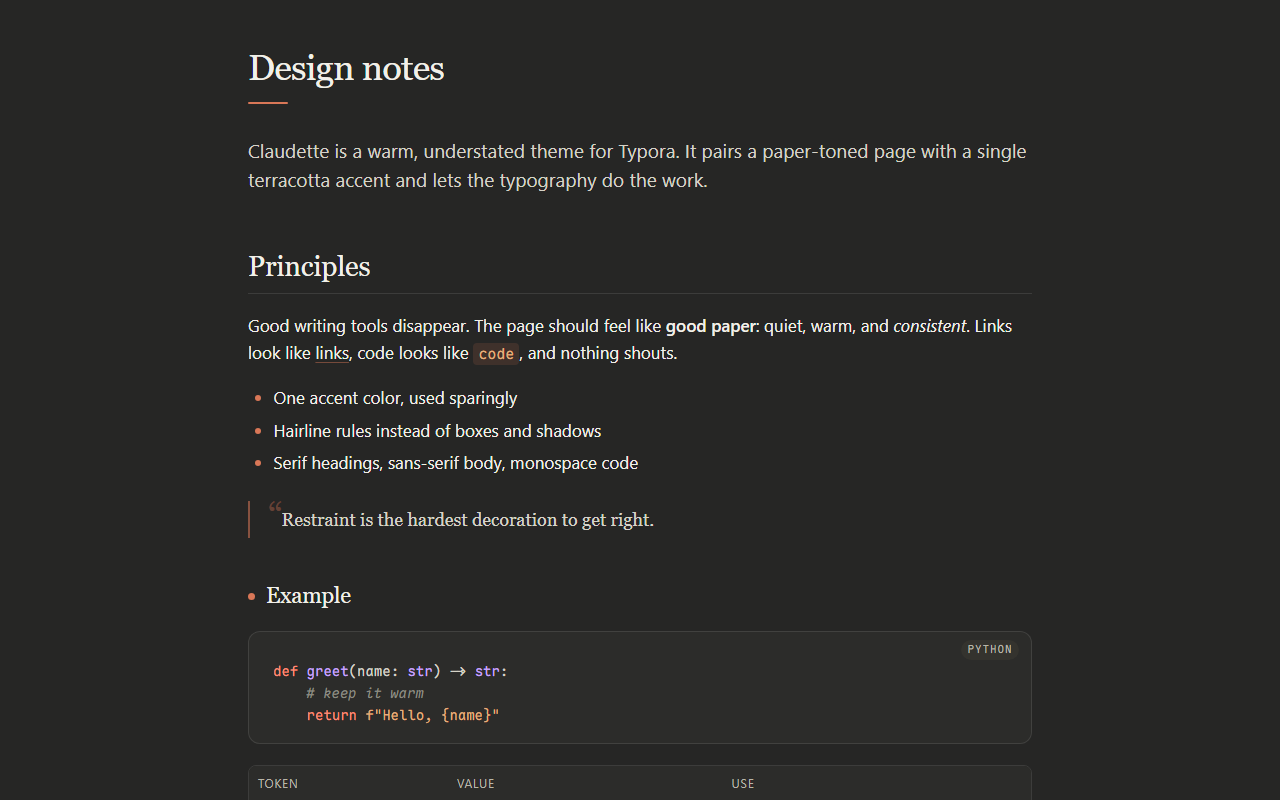
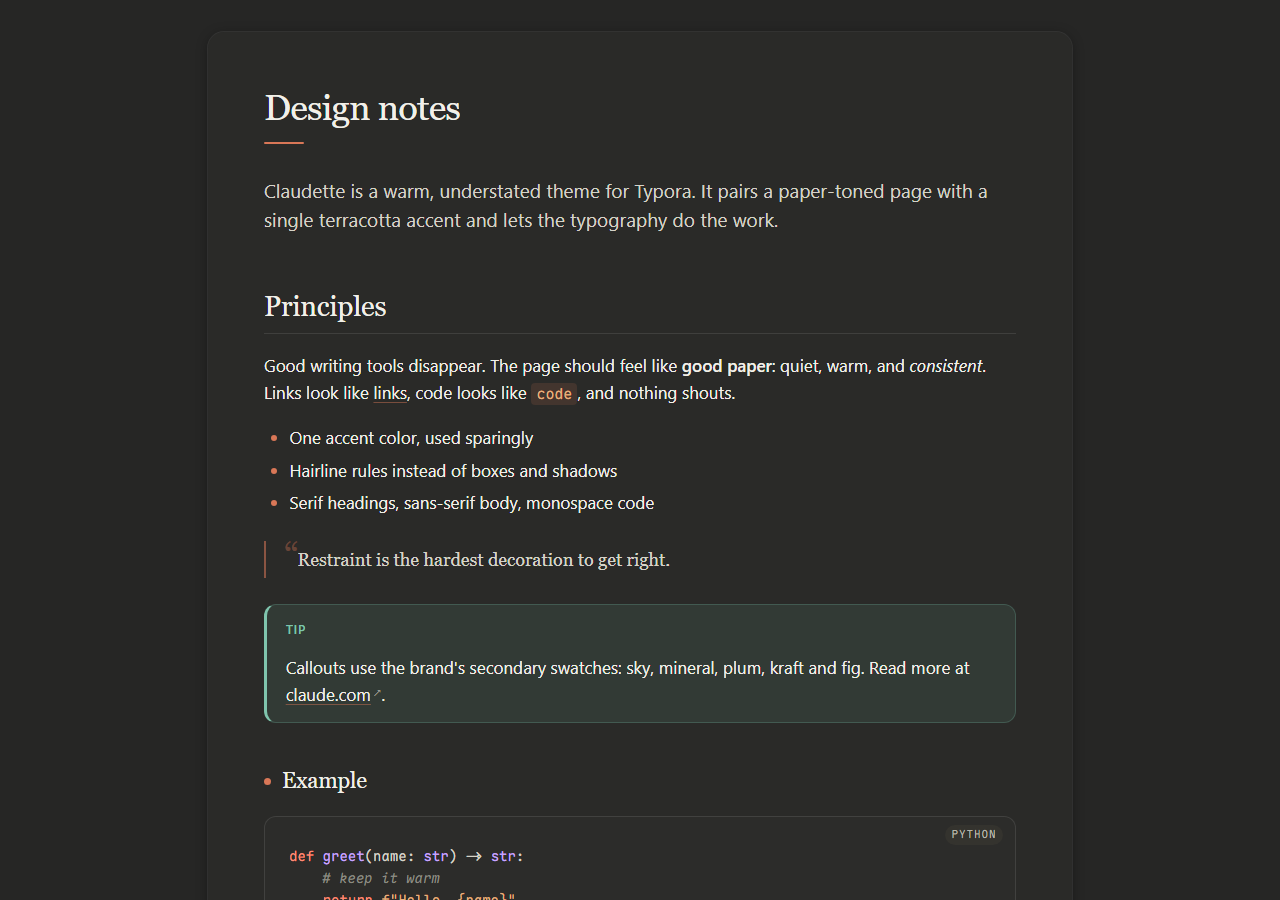
Add paper sheet, brand-tinted callouts and small touches
Place the document on a white sheet over the ivory page as on
academy.claude.com, tint GitHub-style callouts with the secondary
swatches, mark external links, style YAML front matter as a properties
panel and dim non-focused blocks in focus mode.

diff --git a/claudette.css b/claudette.css
@@ -56,6 +56,9 @@
     --bg-fill: var(--ivory-200);
     --bg-fill-2: var(--ivory-250);
     --bg-elevated: var(--white);
+    --paper: var(--white);
+    --paper-ring: rgba(0, 0, 0, 0.10);
+    --paper-shadow: 0 2px 12px rgba(0, 0, 0, 0.05);
     --fg-primary: var(--slate-950);
     --fg-secondary: var(--slate-650);
     --fg-tertiary: var(--slate-550);
@@ -760,7 +763,7 @@ footer.ty-footer {
     top: 50%;
     transform: translate(-50%, -50%);
     padding: 0 0.75em;
-    background: var(--bg-primary);
+    background: var(--paper);
     color: var(--accent);
     font-size: 0.75rem;
     line-height: 1;
@@ -850,14 +853,129 @@ footer.ty-footer {
 .outline-item.select { color: var(--accent-interactive); }
 .sidebar-tab.active { box-shadow: inset 0 -2px 0 var(--accent); }
 
+/* ======================================================================
+ * 锦上添花
+ * 取自 academy.claude.com 的纸张卡片、文档站的提示框、claude.com 的外链箭头
+ * ====================================================================== */
+
+/* 纸张卡片：正文放在一张白纸上，页面底色为米色（academy th-paper / th-page） */
+content { background: var(--bg-primary); scroll-behavior: smooth; }
+#write {
+    background: var(--paper);
+    border-radius: var(--radius-lg);
+    box-shadow: 0 0 0 1px var(--paper-ring), var(--paper-shadow);
+    margin: 2rem auto 3rem;
+    padding: 3.5rem 3.5rem 5rem;
+    min-height: calc(100vh - 5rem);
+    box-sizing: border-box;
+}
+@media only screen and (max-width: 900px) {
+    #write { margin: 1rem auto 2rem; padding: 2.5rem 1.75rem 4rem; border-radius: var(--radius-md); }
+}
+#write .md-fences, #write pre.md-meta-block { background: var(--bg-secondary); }
+#write code { background: var(--accent-soft); }
+
+/* 外部链接：末尾一枚小箭头（claude.com 的 "Explore ↗"） */
+#write a[href^="http"]:not(:has(img))::after {
+    content: "\2197";
+    display: inline-block;
+    margin-left: 0.15em;
+    font-size: 0.7em;
+    line-height: 1;
+    vertical-align: 0.35em;
+    color: var(--fg-muted);
+    text-decoration: none;
+    transition: color .15s ease, transform .15s ease;
+}
+#write a[href^="http"]:hover::after {
+    color: var(--accent-interactive);
+    transform: translate(1px, -1px);
+}
+
+/* 提示框（> [!NOTE] 等）：文档站 callout 的着色，取品牌辅色 */
+#write .md-alert {
+    border: 1px solid var(--alert-line);
+    border-left: 3px solid var(--alert-color);
+    border-radius: var(--radius-md);
+    background: var(--alert-bg);
+    padding: 0.85em 1.1em;
+    margin: 1.4em 0;
+    color: var(--fg-primary);
+}
+#write .md-alert > :last-child { margin-bottom: 0; }
+#write .md-alert .md-alert-text {
+    font-family: var(--font-sans);
+    font-size: 0.8125rem;
+    font-weight: var(--wt-semibold);
+    letter-spacing: 0.04em;
+    text-transform: uppercase;
+    color: var(--alert-color);
+}
+#write .md-alert.md-alert-note      { --alert-color: #3b6fa3; --alert-bg: rgba(106, 155, 204, 0.08); --alert-line: rgba(106, 155, 204, 0.30); }
+#write .md-alert.md-alert-tip       { --alert-color: #3f7566; --alert-bg: rgba(98, 153, 135, 0.10); --alert-line: rgba(98, 153, 135, 0.30); }
+#write .md-alert.md-alert-important { --alert-color: #5f5a9c; --alert-bg: rgba(130, 125, 189, 0.10); --alert-line: rgba(130, 125, 189, 0.30); }
+#write .md-alert.md-alert-warning   { --alert-color: #9a6700; --alert-bg: rgba(212, 162, 127, 0.16); --alert-line: rgba(212, 162, 127, 0.45); }
+#write .md-alert.md-alert-caution   { --alert-color: #a63d5f; --alert-bg: rgba(196, 102, 134, 0.10); --alert-line: rgba(196, 102, 134, 0.30); }
+#write .md-alert-text-note, #write .md-alert-text-tip, #write .md-alert-text-important,
+#write .md-alert-text-warning, #write .md-alert-text-caution { color: var(--alert-color); }
+
+/* YAML front matter：属性面板样式 */
+#write pre.md-meta-block {
+    position: relative;
+    padding: 1.6em 1em 0.85em;
+    border: 1px dashed var(--line-strong);
+    border-radius: var(--radius-md);
+    background: var(--bg-secondary);
+    color: var(--fg-tertiary);
+}
+#write pre.md-meta-block::before {
+    content: "Properties";
+    position: absolute;
+    top: 0.5em;
+    left: 1em;
+    font-family: var(--font-sans);
+    font-size: 0.6875rem;
+    letter-spacing: 0.08em;
+    text-transform: uppercase;
+    color: var(--fg-muted);
+}
+
+/* 侧栏：图标弱化、当前文件图标用 clay，交互带过渡 */
+.file-node-icon, .file-node-open-state { color: var(--fg-muted); }
+.file-library-node.active > .file-node-content .file-node-icon { color: var(--accent); }
+.file-node-content, .file-list-item, .outline-item, .dropdown-menu > li > a, .context-menu > li > a, .btn {
+    transition: background-color .12s ease, color .12s ease, box-shadow .12s ease;
+}
+
+/* 次级按钮：品牌的象牙色填充（anthropic.com secondary） */
+.btn-default {
+    background: var(--bg-fill);
+    box-shadow: none;
+    color: var(--fg-secondary);
+}
+.btn-default:hover { background: var(--ivory-300); color: var(--fg-primary); }
+
+/* 状态栏字数：胶囊 */
+#footer-word-count {
+    background: var(--bg-fill);
+    border-radius: 999px;
+    padding: 0 0.75em;
+}
+
+/* 专注模式：其余段落淡出 */
+.on-focus-mode #write > *:not(.md-focus) { opacity: 0.35; }
+.on-focus-mode #write > *:not(.md-focus):hover { opacity: 0.7; }
+
 /* ---------- 打印 ---------- */
 
 @media print {
     html { font-size: 12.5px; }
     body { background: #fff; }
-    #write { max-width: 100%; padding: 0; }
+    #write { max-width: 100%; padding: 0; margin: 0; box-shadow: none; border-radius: 0; min-height: 0; }
     #write pre, #write .md-fences { page-break-inside: avoid; word-wrap: break-word; }
     #write a { color: var(--fg-primary); text-decoration: none; }
+    #write a[href^="http"]::after { content: none; }
     #write .md-fences { background: var(--bg-secondary); }
     #write tbody tr:hover td { background: transparent; }
+    .on-focus-mode #write > * { opacity: 1; }
 }

diff --git a/claudette-dark.css b/claudette-dark.css
@@ -16,6 +16,9 @@
     --bg-fill: #34332e;
     --bg-fill-2: #3a3933;
     --bg-elevated: #1a1a19;
+    --paper: #2a2a28;
+    --paper-ring: rgba(255, 255, 255, 0.08);
+    --paper-shadow: 0 2px 12px rgba(0, 0, 0, 0.35);
     --fg-primary: #f2f0e9;
     --fg-secondary: #d6d3c8;
     --fg-tertiary: #b8b6a9;
@@ -77,6 +80,17 @@ html { color-scheme: dark; }
 .md-task-list-item > input { background: var(--bg-fill); border-color: var(--line-strong); }
 .md-task-list-item > input:checked { background: var(--accent-interactive); border-color: var(--accent-interactive); }
 .md-task-list-item > input:checked::after { border-color: #141413; }
+
+/* 提示框：深色下提亮文字色 */
+#write .md-alert.md-alert-note      { --alert-color: #8ab4f8; --alert-bg: rgba(106, 155, 204, 0.12); --alert-line: rgba(106, 155, 204, 0.35); }
+#write .md-alert.md-alert-tip       { --alert-color: #7fc4ad; --alert-bg: rgba(98, 153, 135, 0.14); --alert-line: rgba(98, 153, 135, 0.35); }
+#write .md-alert.md-alert-important { --alert-color: #b3aee6; --alert-bg: rgba(130, 125, 189, 0.14); --alert-line: rgba(130, 125, 189, 0.35); }
+#write .md-alert.md-alert-warning   { --alert-color: #e3c07b; --alert-bg: rgba(212, 162, 127, 0.14); --alert-line: rgba(212, 162, 127, 0.40); }
+#write .md-alert.md-alert-caution   { --alert-color: #e58aa6; --alert-bg: rgba(196, 102, 134, 0.14); --alert-line: rgba(196, 102, 134, 0.35); }
+
+/* 次级按钮 */
+.btn-default { background: var(--bg-fill); color: var(--fg-secondary); }
+.btn-default:hover { background: var(--bg-fill-2); color: var(--fg-primary); }
 
 /* 语法错误色在深色下提亮 */
 .cm-s-inner .cm-error, .cm-s-inner .cm-negative { color: #ff6159; }

diff --git a/README.md b/README.md
@@ -15,6 +15,9 @@ Paper-toned background, a single terracotta accent, serif headings, sans-serif b
 - **Editorial typography** — serif headings at weight 400 with tight line-height; the first paragraph after an H1 is styled as a lead paragraph; H6 becomes a small uppercase label.
 - **Quiet code blocks** — soft `#f5f4ed` surface, hairline border, 12px radius, language pill in the corner, and the syntax palette used on claude.com's code panels (keyword `#c2452d`, string `#9c4a21`, number `#9a6700`, function `#6f42c1`, comment `#6e7781`).
 - **Hairline tables** — horizontal rules only, uppercase column headers, subtle row hover.
+- **Paper sheet** — the document sits on a white sheet with a hairline ring over the ivory page, the way academy.claude.com presents content. Delete the `#write` block under "锦上添花" to write directly on the page instead.
+- **Callouts** — `> [!NOTE]`, `[!TIP]`, `[!IMPORTANT]`, `[!WARNING]` and `[!CAUTION]` are tinted with the brand's secondary swatches (sky, mineral, plum, kraft, fig) and get an uppercase label.
+- **Small touches** — external links end in a tiny ↗, YAML front matter renders as a "Properties" panel, focus mode dims everything but the current block.
 - **Whole-app styling** — sidebar, file tree, outline, quick-open, search panel, context menus, dialogs, buttons, source mode and scrollbars all follow the same palette and radii.
 - **Print-ready** — decorations and hover states are stripped when exporting to PDF.
 
